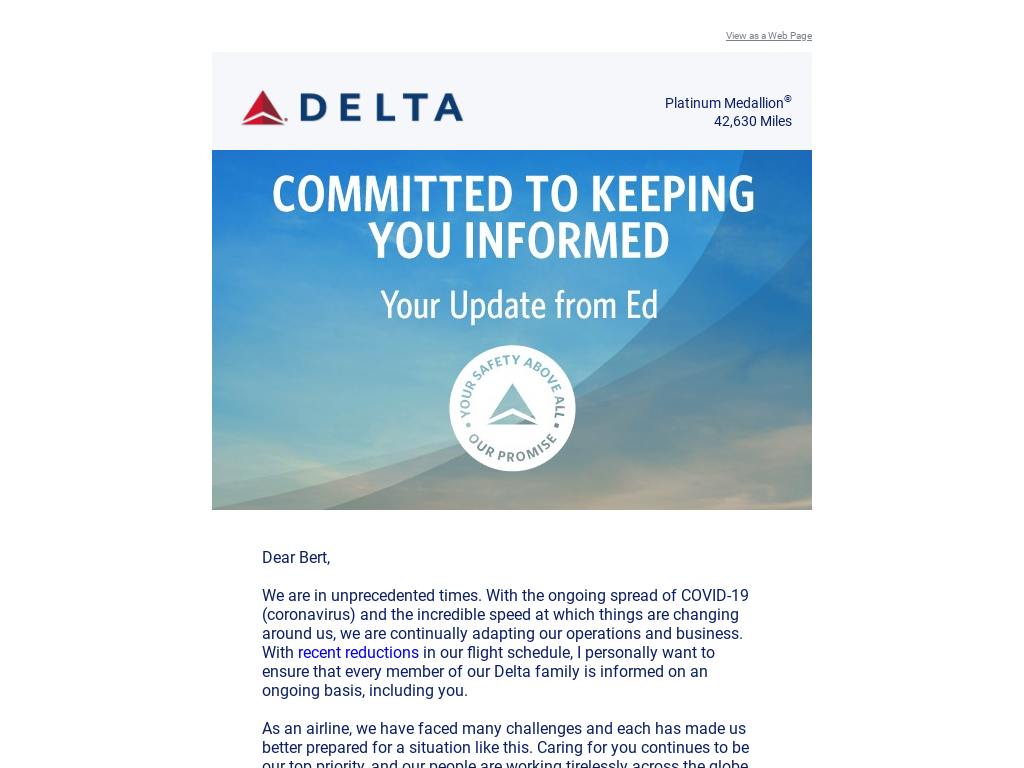
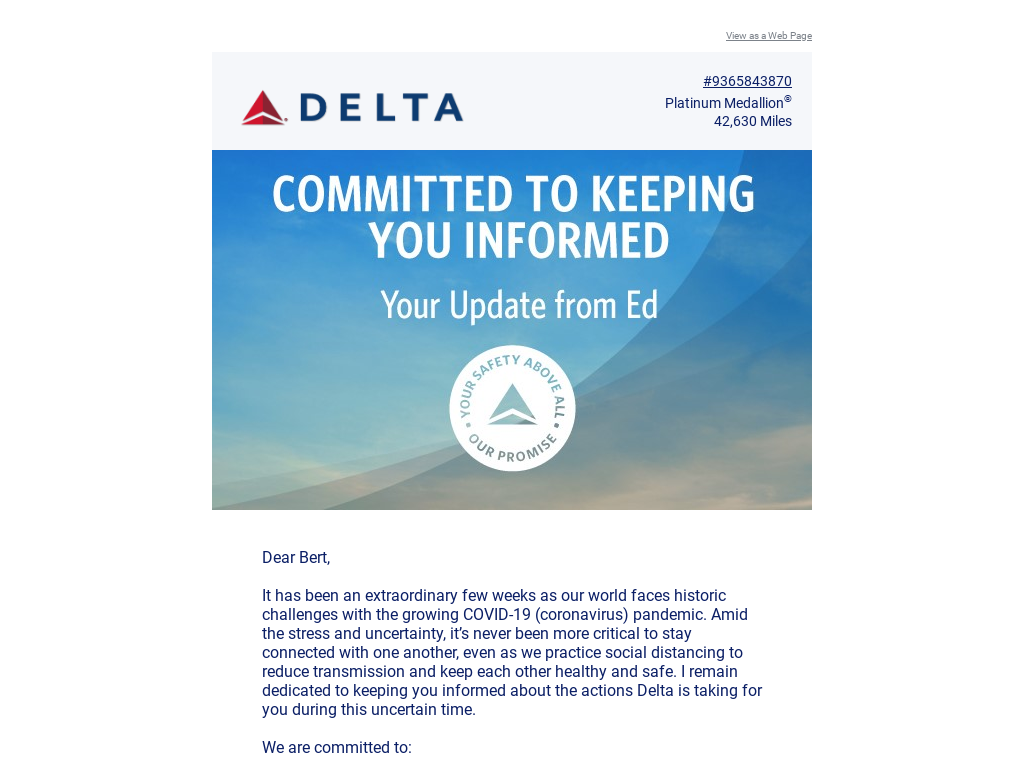
Adding three files for new post on 2020-03-22-OurCommitmentRemainsYourUpdatefromEdBastian

Changed region(s): [[0.25, 0.75, 0.75, 1.0], [0.6875, 0.0938, 0.7812, 0.125]]

diff --git a/_posts/2020-03-22-OurCommitmentRemainsYourUpdatefromEdBastian.md b/_posts/2020-03-22-OurCommitmentRemainsYourUpdatefromEdBastian.md
@@ -1,0 +1,136 @@
+---
+title:  "Our Commitment Remains: Your Update from Ed Bastian"
+metadate: "hide"
+date: 2020-03-22 20:31:15
+categories: [  ]
+image: "/assets/images/posts/OurCommitmentRemainsYourUpdatefromEdBastian_full.png"
+thumbnail: "/assets/images/posts/OurCommitmentRemainsYourUpdatefromEdBastian.png"
+---
+  View as a Web Page
+
+
+
+
+
+#9365843870
+
+ | Platinum Medallion®
+
+ |  42,630 Miles
+
+
+
+
+
+
+Dear Bert,
+
+It has been an extraordinary few weeks as our world faces historic
+challenges with the growing COVID-19 (coronavirus) pandemic. Amid the
+stress and uncertainty, it’s never been more critical to stay connected
+with one another, even as we practice social distancing to reduce
+transmission and keep each other healthy and safe. I remain dedicated to
+keeping you informed about the actions Delta is taking for you during this
+uncertain time.
+
+We are committed to:
+
+   - *Prioritizing your safety while traveling. *Your care and safety
+   remain our top priority, and we continue to make long-term investments that
+   will raise the bar on cleanliness. Changes we’ve announced to streamline
+   cleaning just this week include removing non-essential items from seat-back
+   pockets, including the removal of *Sky* magazine until further notice.
+   In addition, we are using an EPA-registered disinfectant to clean all
+   aircraft and fogging
+   
+   an increasing number of flights with the same disinfectant. And Delta
+   people are being supplied with wellness items such as gloves and cleaning
+   wipes to ensure high-traffic surface areas are disinfected. To keep you
+   informed, we’ve established a new line of communication – just text 27535
+   (or ‘ASKDL’) to receive pre-populated information about airport and
+   aircraft cleanliness as well as travel guidance from the Centers for
+   Disease Control and Prevention (CDC) and the World Health Organization
+   (WHO).
+
+
+   - *Making travel changes easier.* As the situation evolves, your
+   flexibility when traveling remains our focus. To that end, we’ve simplified
+   our waivers
+   
+   for making changes, including extending our domestic travel waiver through
+   May 31. We are now waiving all change fees for U.S. domestic and
+   international travel departing in March, April or May 2020 as well as
+   tickets purchased in March 2020. Rest assured that the value of your ticket
+   won’t be lost if you decide to make adjustments. The unprecedented volume
+   of changes has been an unexpected challenge for our Reservations team. They
+   continue to work around the clock to assist your urgent needs, and we
+   sincerely appreciate your patience. For eligible SkyMiles®
+Medallion® Members,
+   we’ve extended upgrade certificates and $200 Delta travel vouchers, and for
+   eligible Delta SkyMiles American Express Card Members, we’ve extended
+   Companion Certificates. Now, you will have until the end of 2020 to enjoy
+   those benefits that were originally expiring before June 30. We will keep
+   you informed on additional decisions as we evaluate overall Medallion
+   Status and promotions.
+
+
+   - *Protecting Delta’s future*. We want to be transparent about the fact
+   that your travel experience will change throughout the coming months as we
+   protect your health and safety, and work to emerge and recover from this
+   crisis. This includes the difficult decision to temporarily close many of
+   our Delta Sky Clubs
+   ®
+   and reduce onboard offerings. I know it’s not easy to give up amenities
+   you deserve and have come to love, and we are committed to bringing them
+   back as quickly as possible. I appreciate your patience and understanding.
+
+
+   - *Creating connections during extraordinary circumstances. *Amid the
+   challenges we are all facing, you and our people continue to inspire me
+   every day. I appreciate the countless messages many of you have shared
+   praising our employees, as well as those who have reached out to let us
+   know you can’t wait for your next adventure aboard Delta once we’re through
+   this crisis. Thank you for your inspiring words.
+
+The Delta family has made it through hard times before and will get through
+this, by staying true to our values of service, integrity and honesty at
+all times. Thank you for your continued support as we navigate this
+challenge, and I hope everyone remains healthy and safe.
+
+
+Sincerely,
+
+
+
+*Ed Bastian*
+CEO
+*Coronavirus Update Center:  View the latest information and guidance >
+*
+
+Need Help?
+
+•
+Flight Deals
+
+•
+Earn Miles
+
+•
+Give Back
+
+
+
+
+
+
+
+Email Preferences
+
+ |
+Privacy Policy
+
+This email was sent to:
+
+© 2020 Delta Air Lines, Inc. All rights reserved.
+Delta Blvd. P.O. Box 20706 • Atlanta, GA 30320-6001
+
